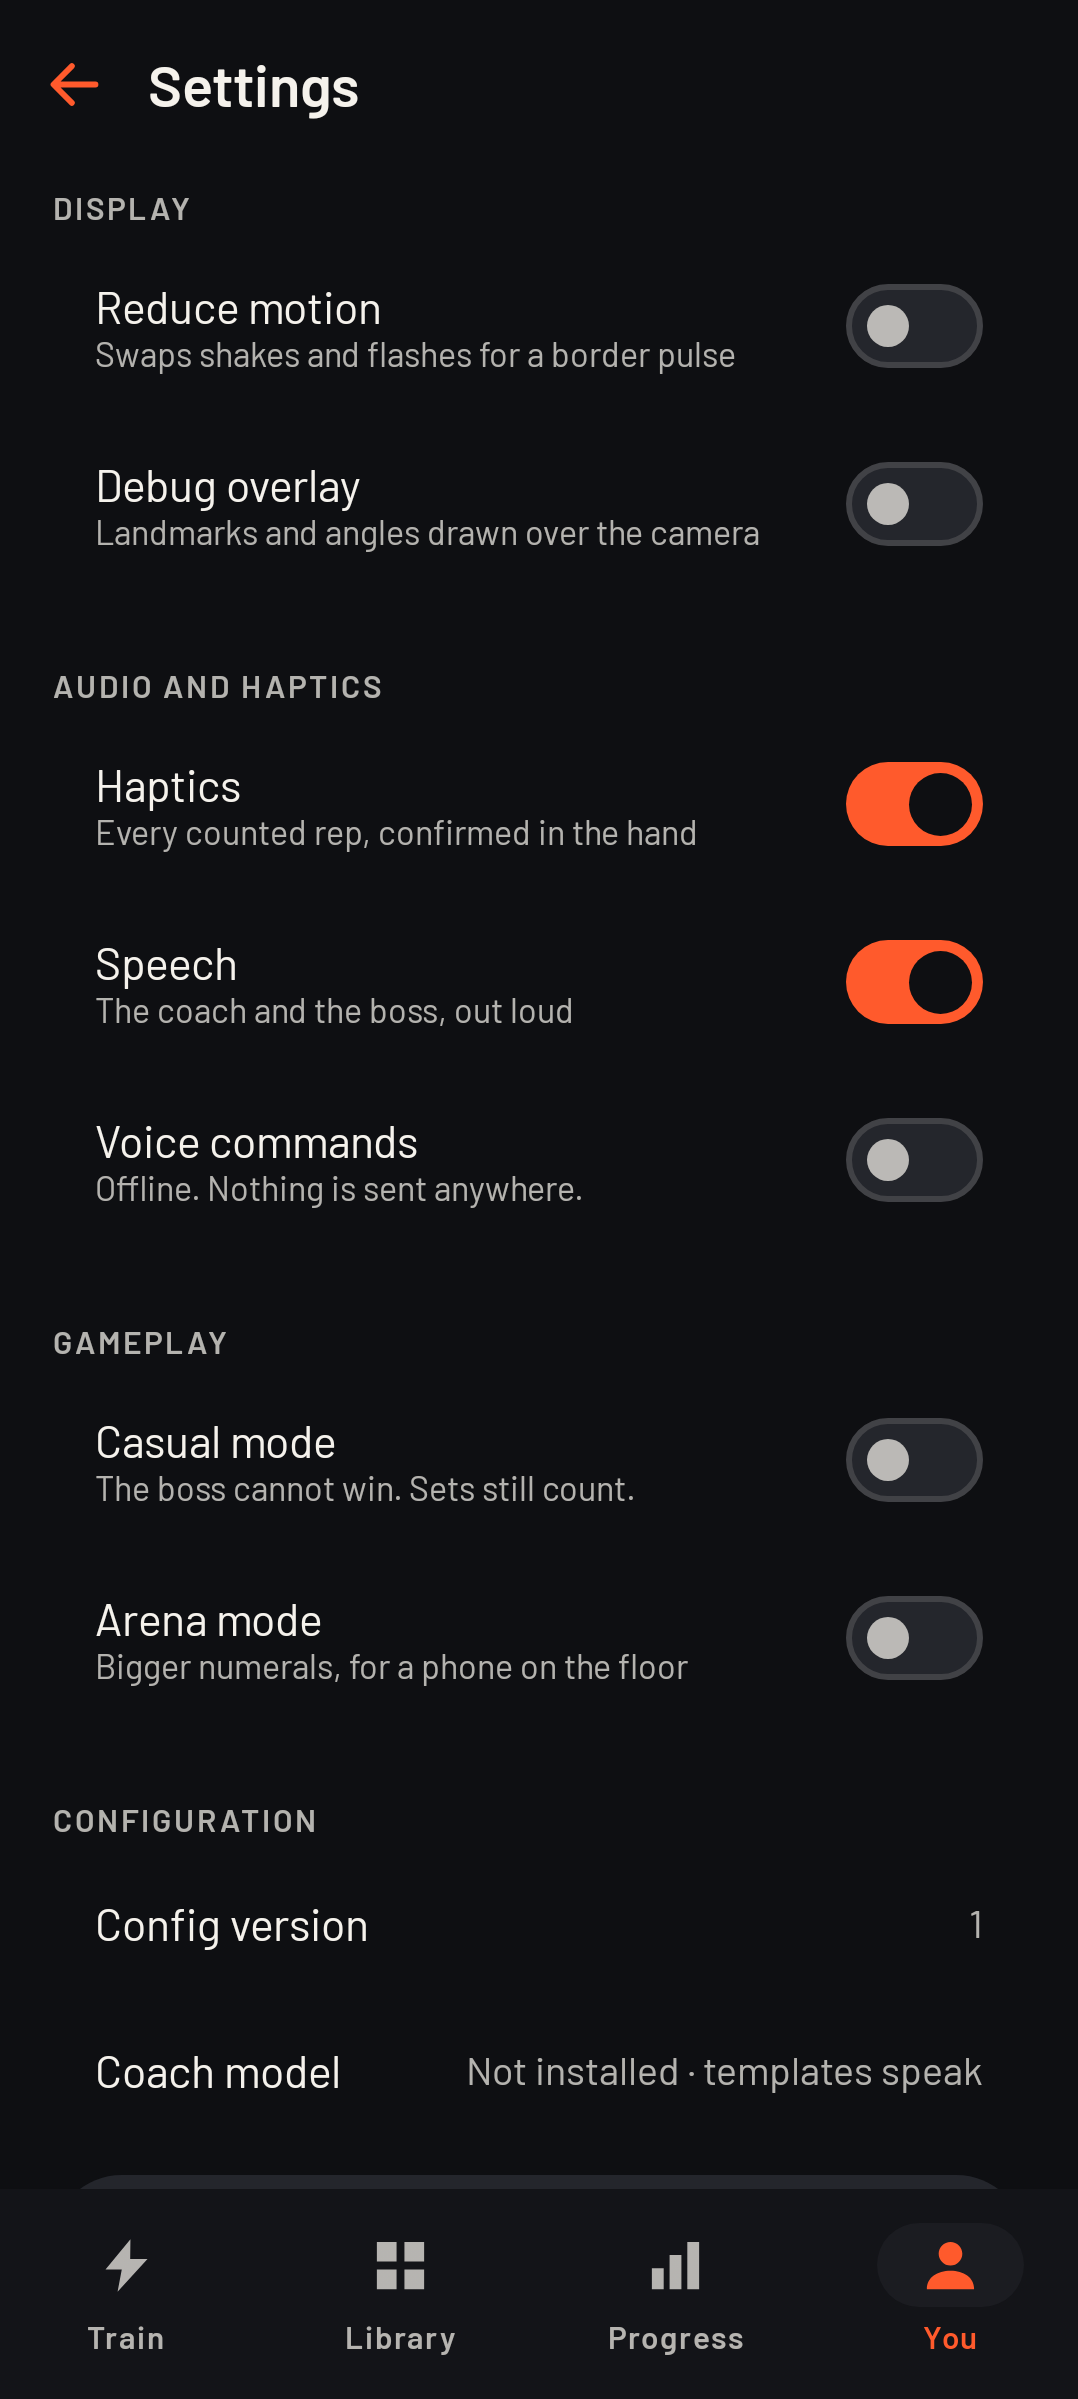
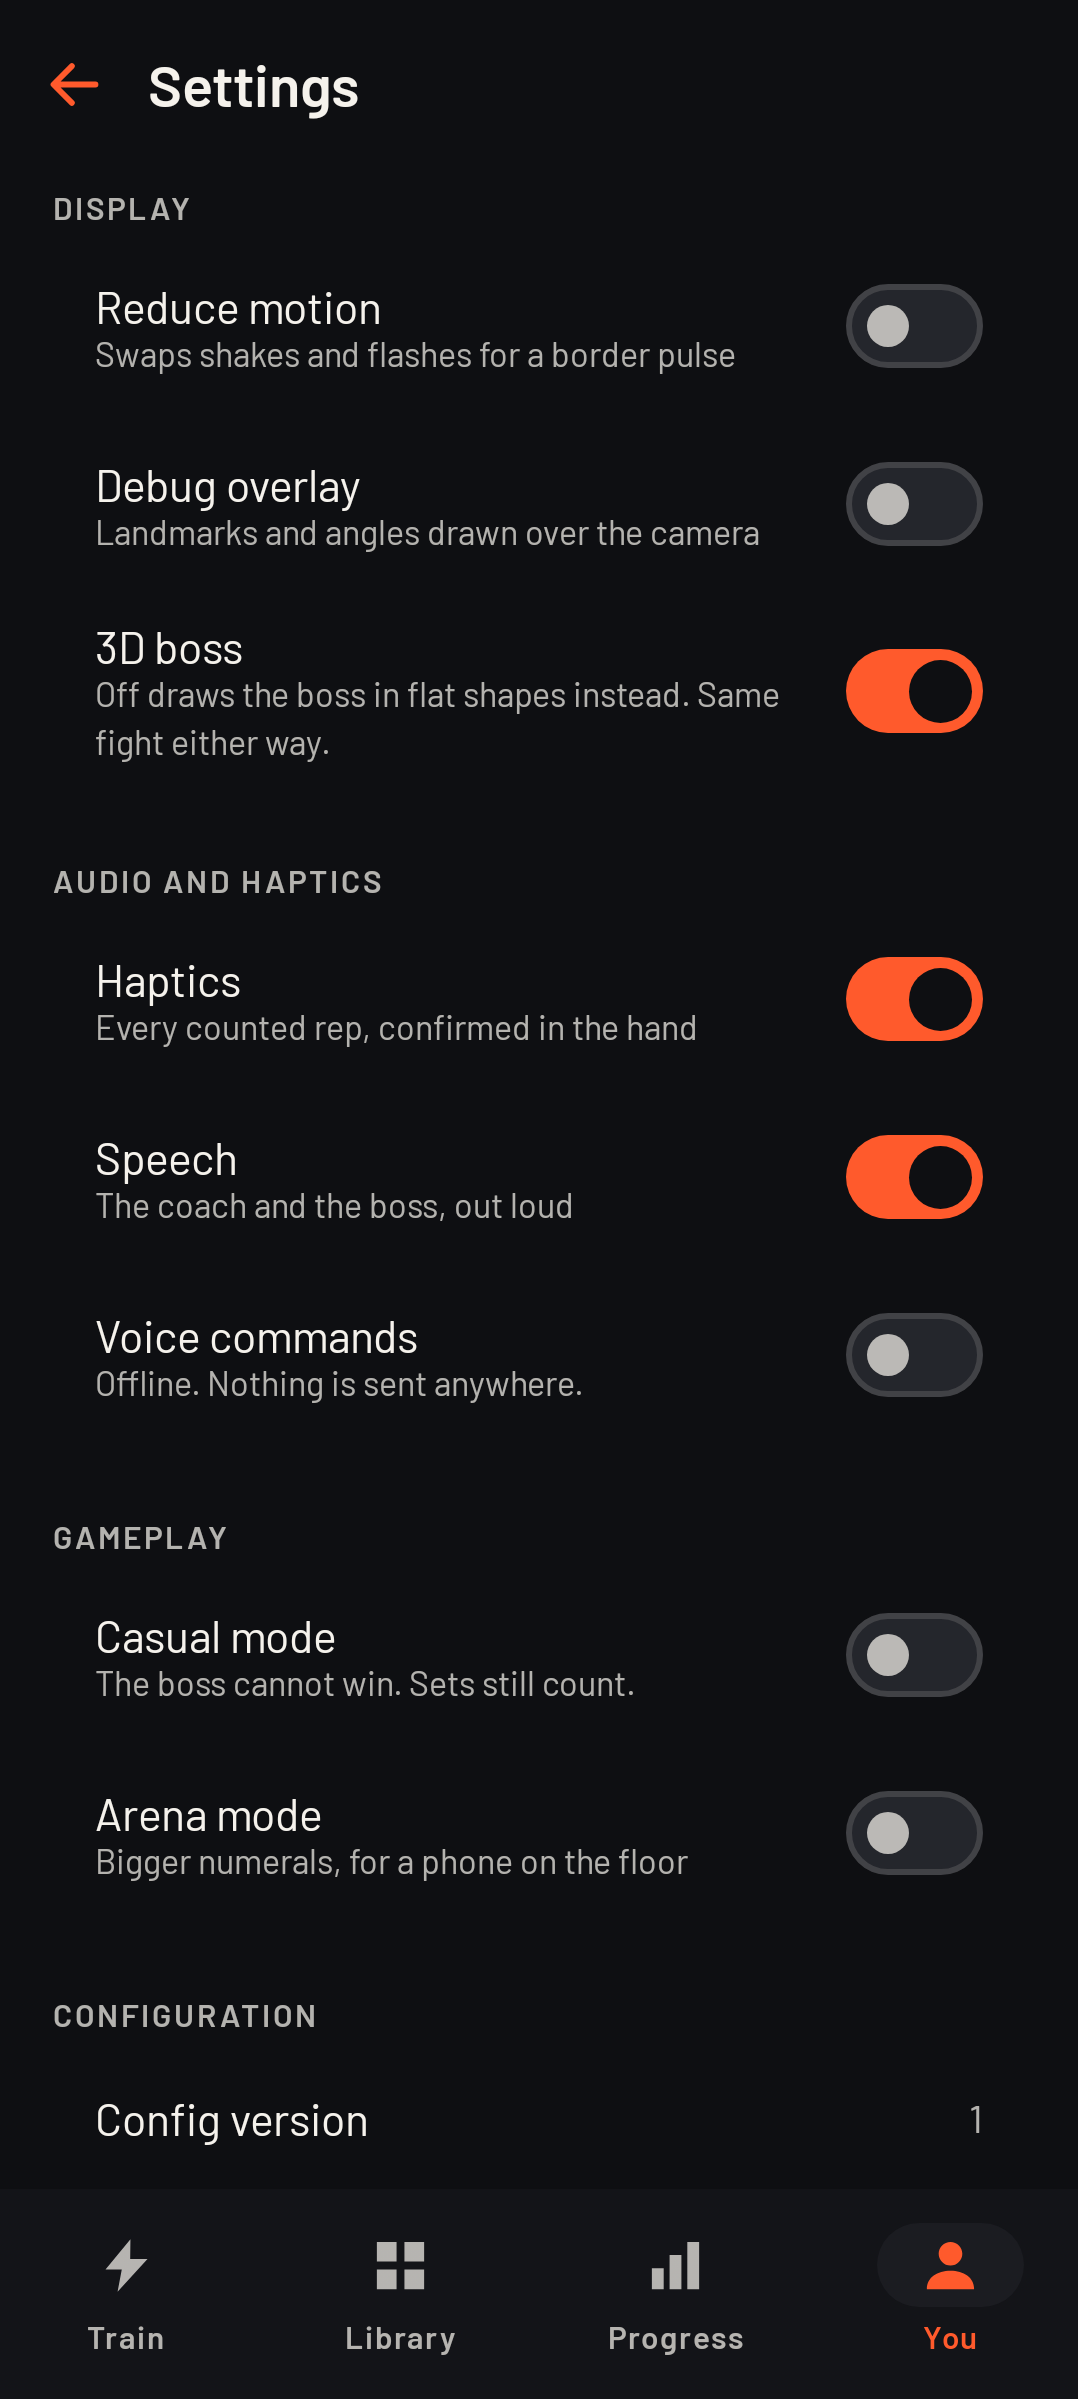
feat(android): a switch for the 3D boss, reachable in five seconds
The automatic fallback catches a renderer that fails loudly: a missing native
library, a driver that will not give us a context, a frame that throws. It
cannot catch a renderer that starts and looks wrong on a venue's projector, and
that is not the moment to be recompiling.

Settings now has a 3D boss switch. Off draws the Compose boss instead, which is
a complete boss with the same six states rather than a placeholder, so the fight
is the same fight either way.

Verified the release build end to end with Filament in it. R8 keeps every class
the renderer reaches from JNI, both native libraries are packaged for arm64 and
x86_64, and the 54 KB model is in the assets. The APK is 117.7 MB, up about ten
from the renderer's native code.

538 tests, 53 screenshot baselines.

diff --git a/android/app/src/main/java/com/clashfit/ui/screens/session/SessionScreen.kt b/android/app/src/main/java/com/clashfit/ui/screens/session/SessionScreen.kt
@@ -60,6 +60,7 @@ import com.clashfit.perception.ExoRig
 import androidx.compose.foundation.layout.fillMaxHeight
 import kotlinx.coroutines.launch
 import com.clashfit.meta.MetaState
+import com.clashfit.data.Prefs
 
 /**
  * One screen for the whole fight. The engine's phase decides what is drawn: calibration guide,
@@ -84,6 +85,7 @@ fun SessionScreen(
     val camera = deps.pose as? CameraPreviewSource
     // Your rank and this week's target, live, in the fight rather than on a profile page.
     val meta by graph.meta.state.collectAsStateWithLifecycle(initialValue = null)
+    val settings by graph.prefs.settings.collectAsStateWithLifecycle(initialValue = Prefs.Settings())
 
     var lastHit by remember { mutableStateOf<HudEvent.Hit?>(null) }
     val jolt = remember { Animatable(0f) }
@@ -134,7 +136,7 @@ fun SessionScreen(
                 ExitCorner(onExit)
             }
             Phase.FIGHTING, Phase.FRAMING_LOST -> {
-                FightLayout(s, vm, lastHit, jolt.value, shake.value, paused, reduceMotion, camera, landmarks, meta)
+                FightLayout(s, vm, lastHit, jolt.value, shake.value, paused, reduceMotion, camera, landmarks, meta, settings)
             }
             Phase.REST -> RestPanel(s, restLeft, onSkip = vm::skipRest, onStop = vm::stop)
             Phase.DEAD -> EndPanel(s, onSummary = { /* wait for persistence */ }, onExit = onExit)
@@ -149,7 +151,7 @@ fun SessionScreen(
 private fun FightLayout(
     s: SessionState, vm: SessionViewModel, lastHit: HudEvent.Hit?, jolt: Float, shake: Float,
     paused: Boolean, reduceMotion: Boolean, camera: CameraPreviewSource?, landmarks: Landmarks?,
-    meta: MetaState?,
+    meta: MetaState?, settings: Prefs.Settings,
 ) {
     val prone = vm.isProne
     val link by vm.link.collectAsStateWithLifecycle()
@@ -164,7 +166,8 @@ private fun FightLayout(
         // the body it is reacting to. Its renderer draws with a transparent background.
         BossStage(
             s.combat, jolt, shake,
-            Modifier
+            allow3d = settings.boss3d,
+            modifier = Modifier
                 .align(Alignment.TopCenter)
                 .fillMaxWidth(if (prone) 0.52f else 0.66f)
                 .fillMaxHeight(if (prone) 0.34f else 0.44f)

diff --git a/android/app/src/main/java/com/clashfit/data/Prefs.kt b/android/app/src/main/java/com/clashfit/data/Prefs.kt
@@ -39,6 +39,16 @@ class Prefs(private val context: Context) {
         val goal: String = Goal.GET_STRONGER.name,
         /** Index into the avatar palette on the profile. */
         val avatarColor: Int = 0,
+        /**
+         * Render the boss as the 3D model. Off falls back to the Compose-drawn boss, which is a
+         * complete boss with the same six states rather than a placeholder.
+         *
+         * This exists as a switch a human can reach in five seconds. The 3D renderer is native
+         * code running on a device we may be meeting for the first time, and the automatic
+         * fallback only catches failures loud enough to throw. If it starts but looks wrong on a
+         * venue's projector, nobody wants to be recompiling.
+         */
+        val boss3d: Boolean = true,
     )
 
     enum class Goal(val title: String, val blurb: String) {
@@ -68,10 +78,12 @@ class Prefs(private val context: Context) {
             onboarded = p[ONBOARDED] ?: false,
             goal = p[GOAL] ?: Goal.GET_STRONGER.name,
             avatarColor = p[AVATAR_COLOR] ?: 0,
+            boss3d = p[BOSS_3D] ?: true,
         )
     }
 
     suspend fun setReduceMotion(v: Boolean) = context.dataStore.edit { it[REDUCE_MOTION] = v }
+    suspend fun setBoss3d(v: Boolean) = context.dataStore.edit { it[BOSS_3D] = v }
     suspend fun setHaptics(v: Boolean) = context.dataStore.edit { it[HAPTICS] = v }
     suspend fun setVoiceCommands(v: Boolean) = context.dataStore.edit { it[VOICE] = v }
     suspend fun setSpeech(v: Boolean) = context.dataStore.edit { it[SPEECH] = v }
@@ -100,6 +112,7 @@ class Prefs(private val context: Context) {
 
     private companion object {
         val REDUCE_MOTION = booleanPreferencesKey("reduce_motion")
+        val BOSS_3D = booleanPreferencesKey("boss_3d")
         val HAPTICS = booleanPreferencesKey("haptics")
         val VOICE = booleanPreferencesKey("voice_commands")
         val SPEECH = booleanPreferencesKey("speech")

diff --git a/android/app/src/main/java/com/clashfit/ui/screens/session/Boss3D.kt b/android/app/src/main/java/com/clashfit/ui/screens/session/Boss3D.kt
@@ -254,11 +254,20 @@ private class BossRig(view: TextureView, glb: ByteArray) {
  * problem — a missing native library, a driver that will not give us a context, a frame that
  * throws. The fallback is not a placeholder: it is a complete boss with the same six states, so a
  * phone that cannot run the renderer still gets a fight rather than an apology.
+ *
+ * [allow3d] is the manual override from Settings. Automatic fallback only catches failures loud
+ * enough to throw; a renderer that starts and looks wrong needs a switch a person can reach.
  */
 @Composable
-fun BossStage(combat: CombatState, jolt: Float, shake: Float, modifier: Modifier = Modifier) {
+fun BossStage(
+    combat: CombatState,
+    jolt: Float,
+    shake: Float,
+    modifier: Modifier = Modifier,
+    allow3d: Boolean = true,
+) {
     var use3d by remember { mutableStateOf(true) }
-    if (use3d) {
+    if (allow3d && use3d) {
         Boss3D(combat, jolt, modifier, onUnavailable = { use3d = false })
     } else {
         BossFigure(combat, jolt, shake, modifier)

diff --git a/android/app/src/main/java/com/clashfit/ui/screens/settings/SettingsScreen.kt b/android/app/src/main/java/com/clashfit/ui/screens/settings/SettingsScreen.kt
@@ -60,6 +60,8 @@ fun SettingsScreen(graph: AppGraph, nav: NavHostController) {
                 supporting = "Swaps shakes and flashes for a border pulse")
             SwitchRow("Debug overlay", settings.debugOverlay, { v -> scope.launch { graph.prefs.setDebugOverlay(v) } },
                 supporting = "Landmarks and angles drawn over the camera")
+            SwitchRow("3D boss", settings.boss3d, { v -> scope.launch { graph.prefs.setBoss3d(v) } },
+                supporting = "Off draws the boss in flat shapes instead. Same fight either way.")
 
             SectionGap(28)
             Kicker("Audio and haptics")
